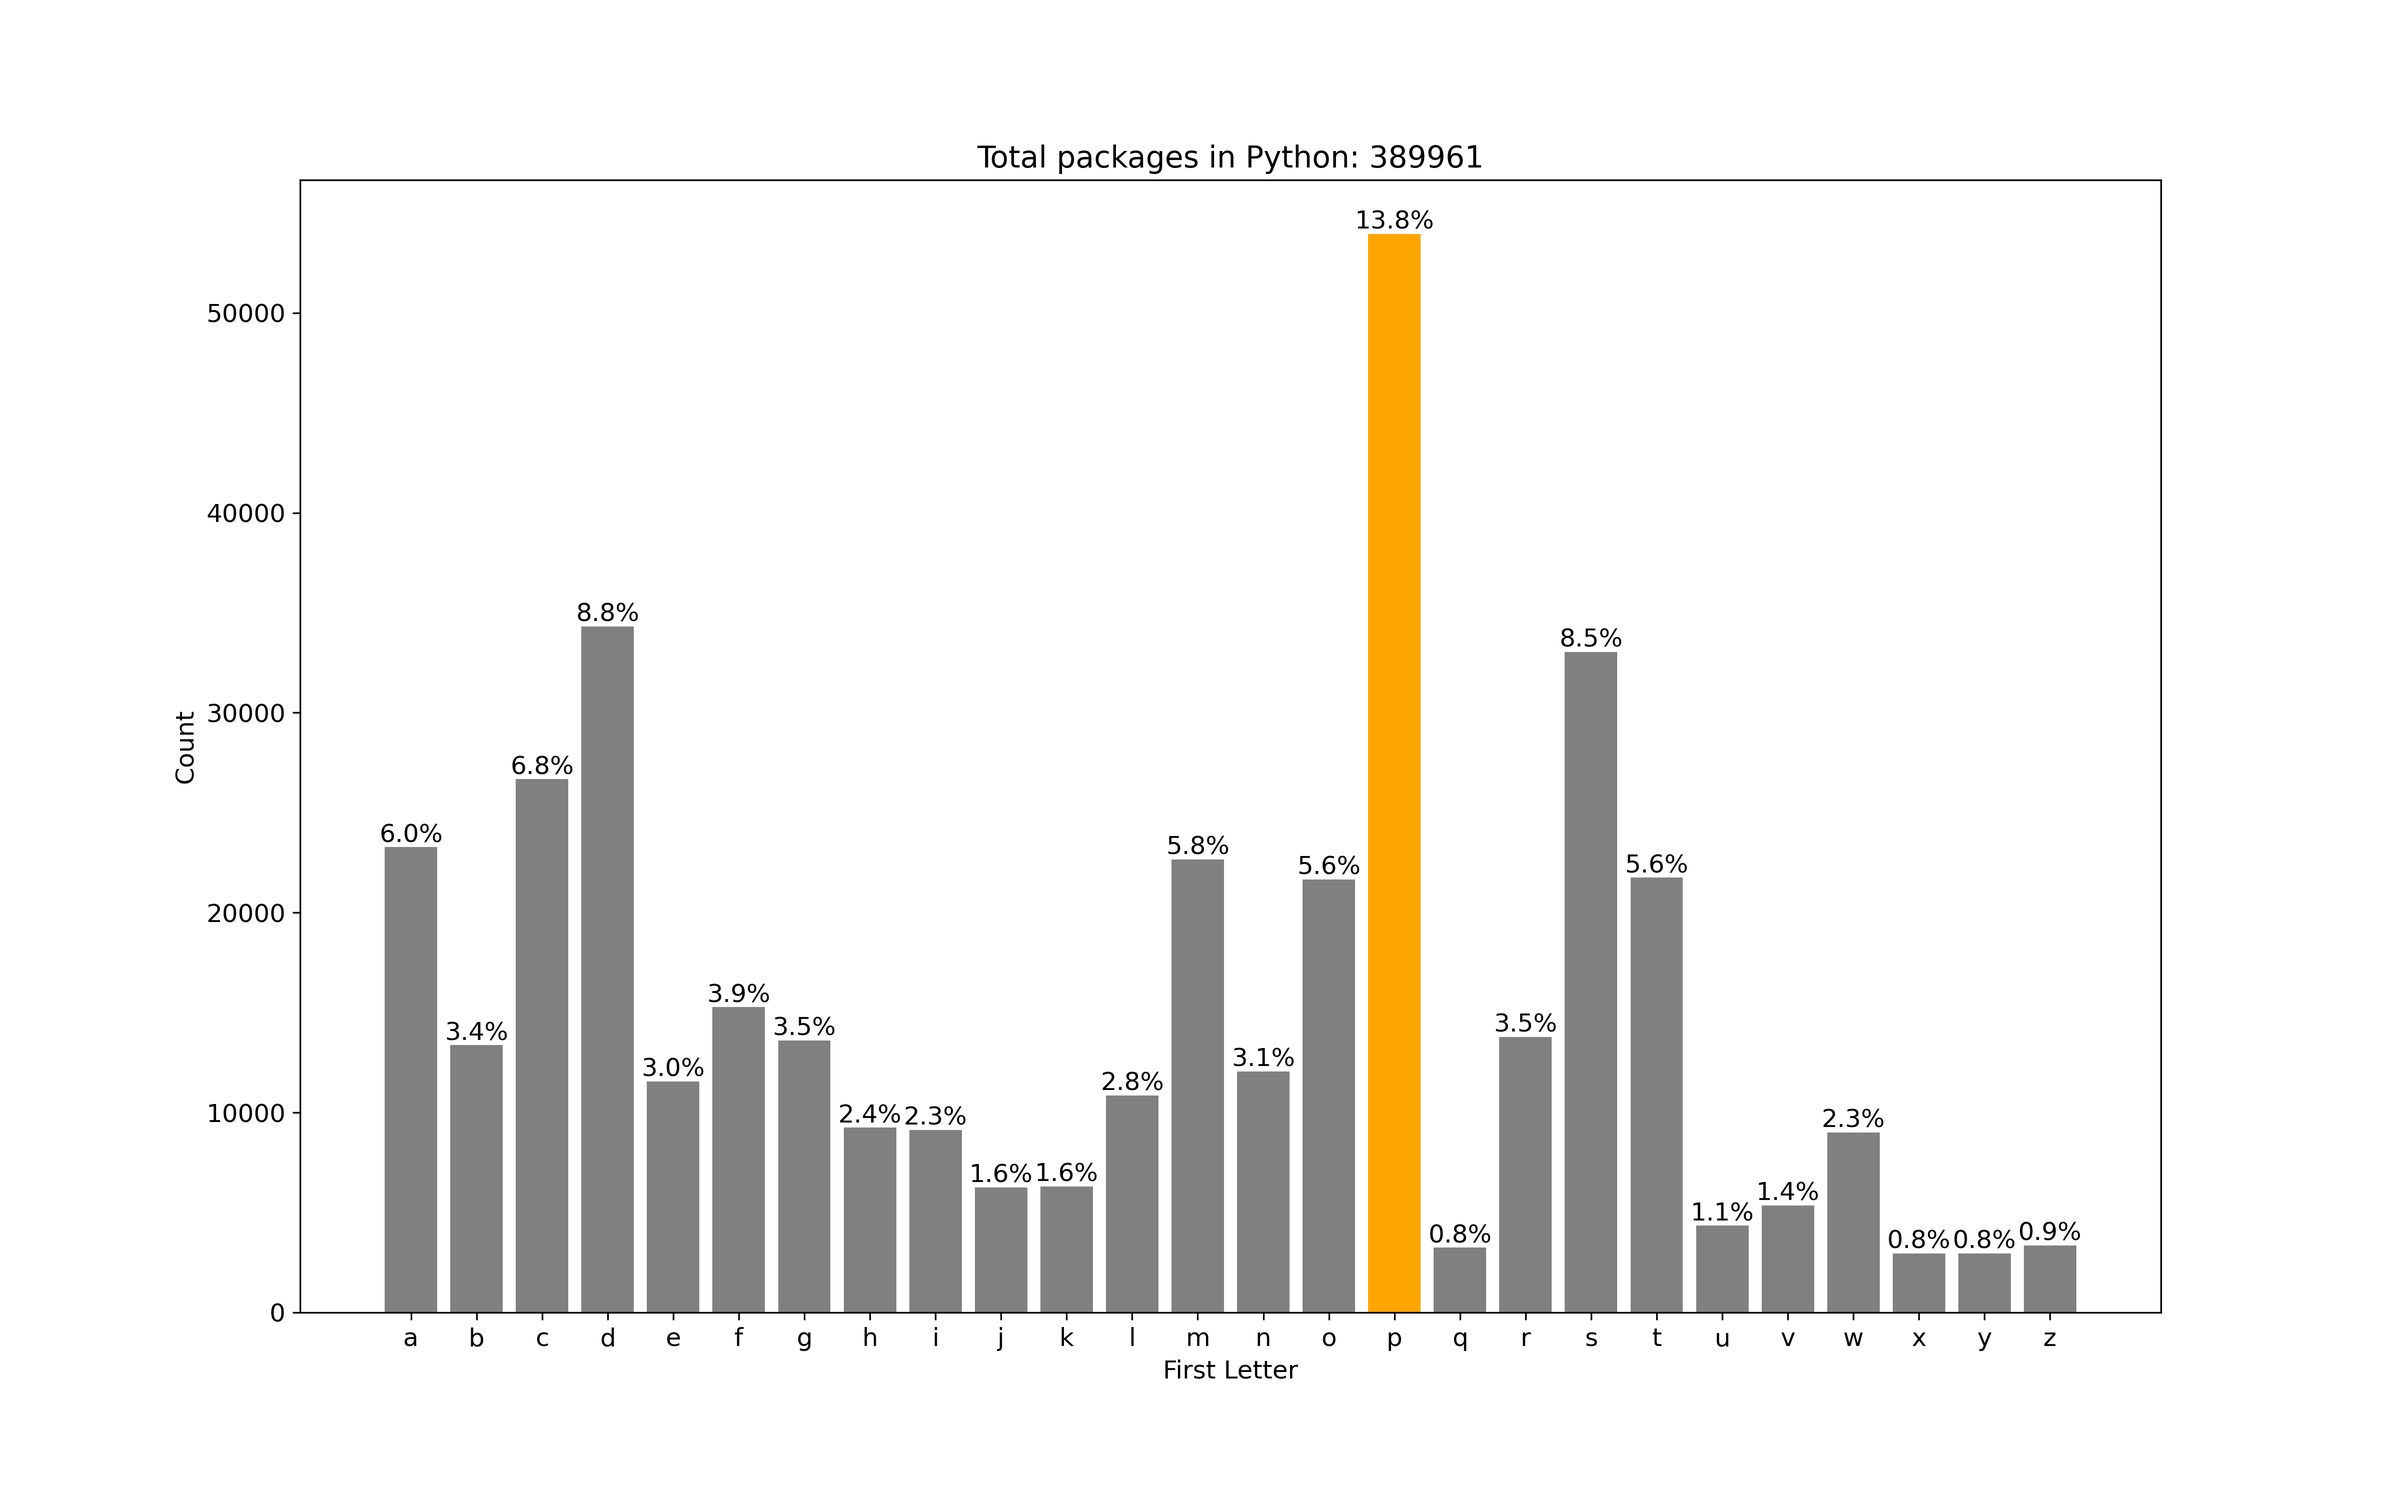
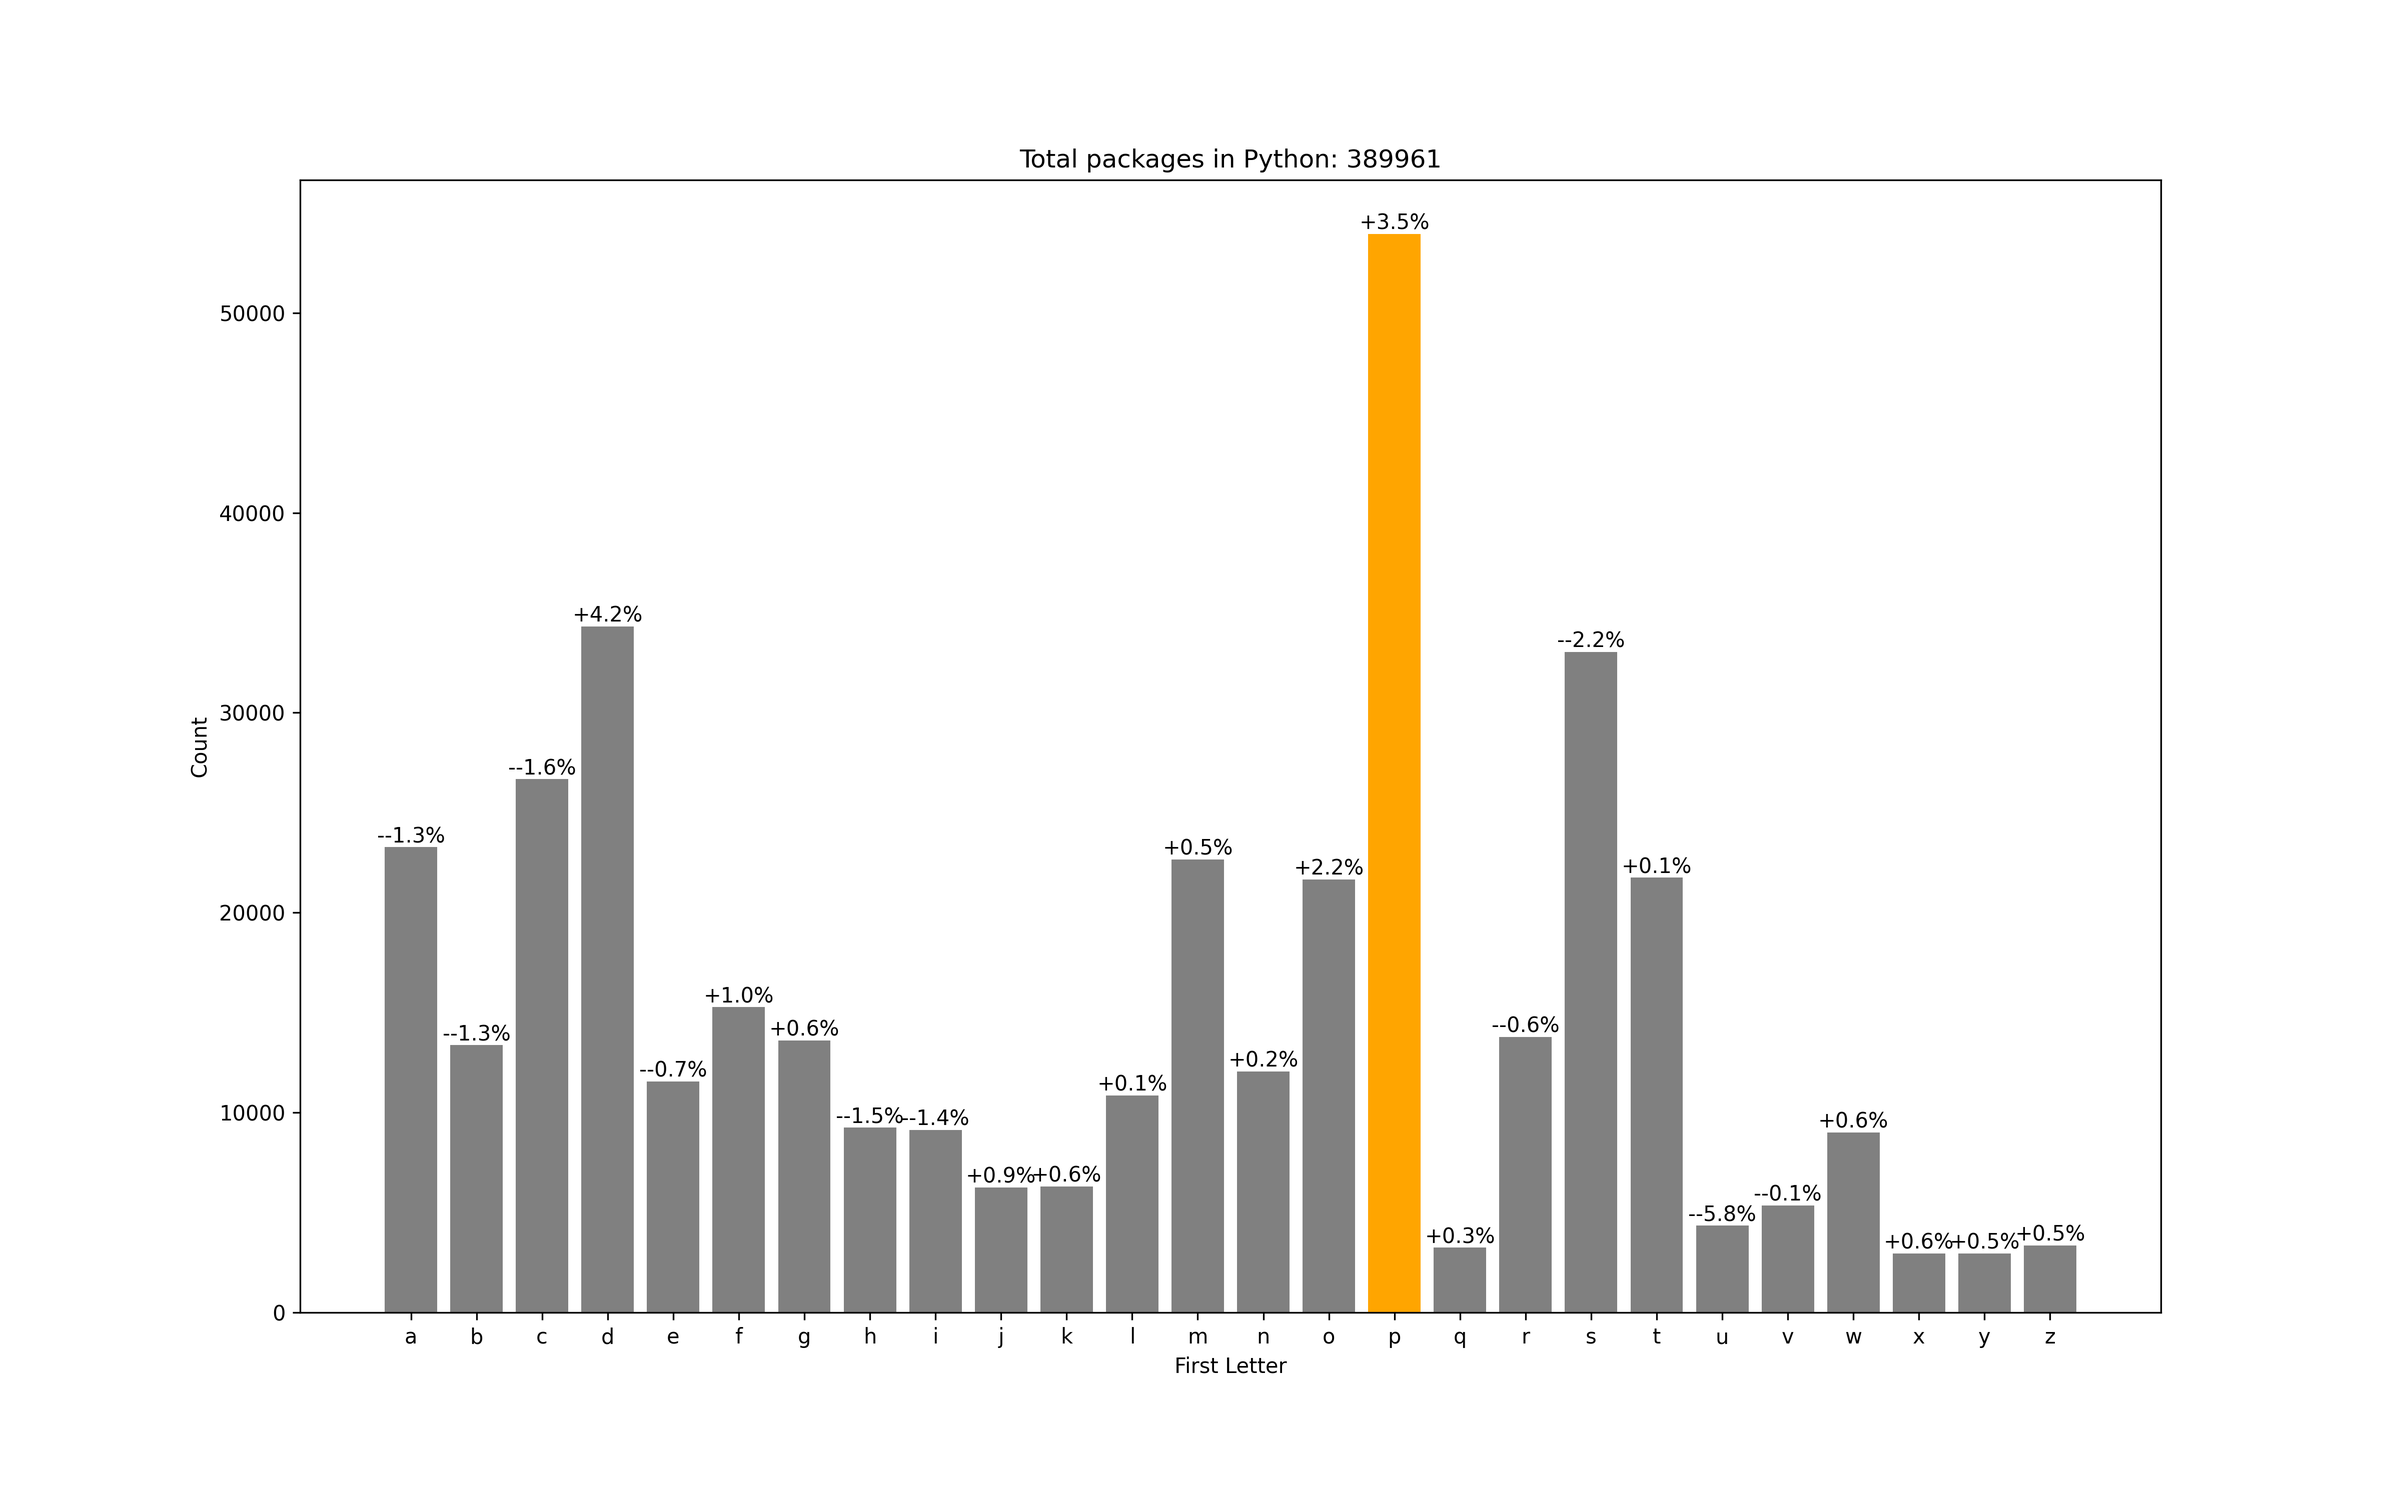
chore: Update files ♻

diff --git a/src/posts/47-package-names-in-language-ecosystems.md b/src/posts/47-package-names-in-language-ecosystems.md
@@ -22,10 +22,14 @@ The following is the code I'm using:
 ```{.python .collapse}
 %matplotlib inline
 import matplotlib.pyplot as plt
+import numpy as np
 
-plt.rc("font", size = 12)
+plt.rc("font", size = 10)
 
 from collections import defaultdict
+
+reference = {}
+total_reference = 0
 
 def frequency_plot(items, lang, kind="packages"):
     bucket = defaultdict(lambda: 0)
@@ -36,16 +40,30 @@ def frequency_plot(items, lang, kind="packages"):
     if kind=="packages":
         colors[lang[0].lower()] = "orange"
     keys = [k for k in sorted(list(bucket.keys())) if k.isalpha()]
-
     fig, axs = plt.subplots(1,1,figsize=(16,10))
     ax = axs
     ax.bar(keys, [bucket[k] for k in keys], color=[colors[k] for k in keys])
     total = sum(bucket[k] for k in keys)
     rects = ax.patches
+
+    global reference
+    global total_reference
+    if kind != "packages":
+        reference = bucket
+        total_reference = total
+
     for rect, k in zip(rects, keys):
         height = rect.get_height()
+        if kind == "packages":
+            v = round(bucket[k] / total * 100 - reference[k] / total_reference * 100, 1)
+            s = ["+", "-"][int(v < 0)]
+        else:
+            v = round(bucket[k] / total * 100, 1)
+            s = ""
+
+        label = f"{s}{v}%"
         ax.text(
-            rect.get_x() + rect.get_width() / 2, height + 5, f"{round(bucket[k] / total * 100, 1)}%", ha="center", va="bottom"
+            rect.get_x() + rect.get_width() / 2, height + 5, label, ha="center", va="bottom"
         )
 
     ax.set_title(f"Total {kind} in {lang}: {total}")
@@ -117,8 +135,6 @@ plt.savefig("./images/julia-package-names.png", dpi=300, transparent=True);
 
 ## Rust
 
-<https://crates.io> conveniently has a [data-access](https://crates.io/data-access) page that links to the latest dump which contains a `csv` file with the names of all the packages.
-
 ```python
 import pandas as pd
 packages = set(pd.read_csv("~/Downloads/2022-07-29-020018/data/crates.csv")["name"].dropna())
@@ -133,8 +149,6 @@ plt.savefig("./images/rust-package-names.png", dpi=300, transparent=True);
 ![](./images/rust-package-names.png)
 
 ## R
-
-For R, similar to Python, we can parse the HTML from <https://cran.r-project.org/web/packages/available_packages_by_name.html>:
 
 ```python
 import requests
@@ -158,4 +172,4 @@ plt.savefig("./images/r-package-names.png", transparent=True, dpi=300)
 ## Conclusion
 
 In all these cases, the number of packages are higher, but not by a whole lot.
-It would be nice to test this assumption on C, C++, and Go, but these languages, as far as I can tell, don't have central registries.
+It would be nice to test this assumption on C, C++, Go.
